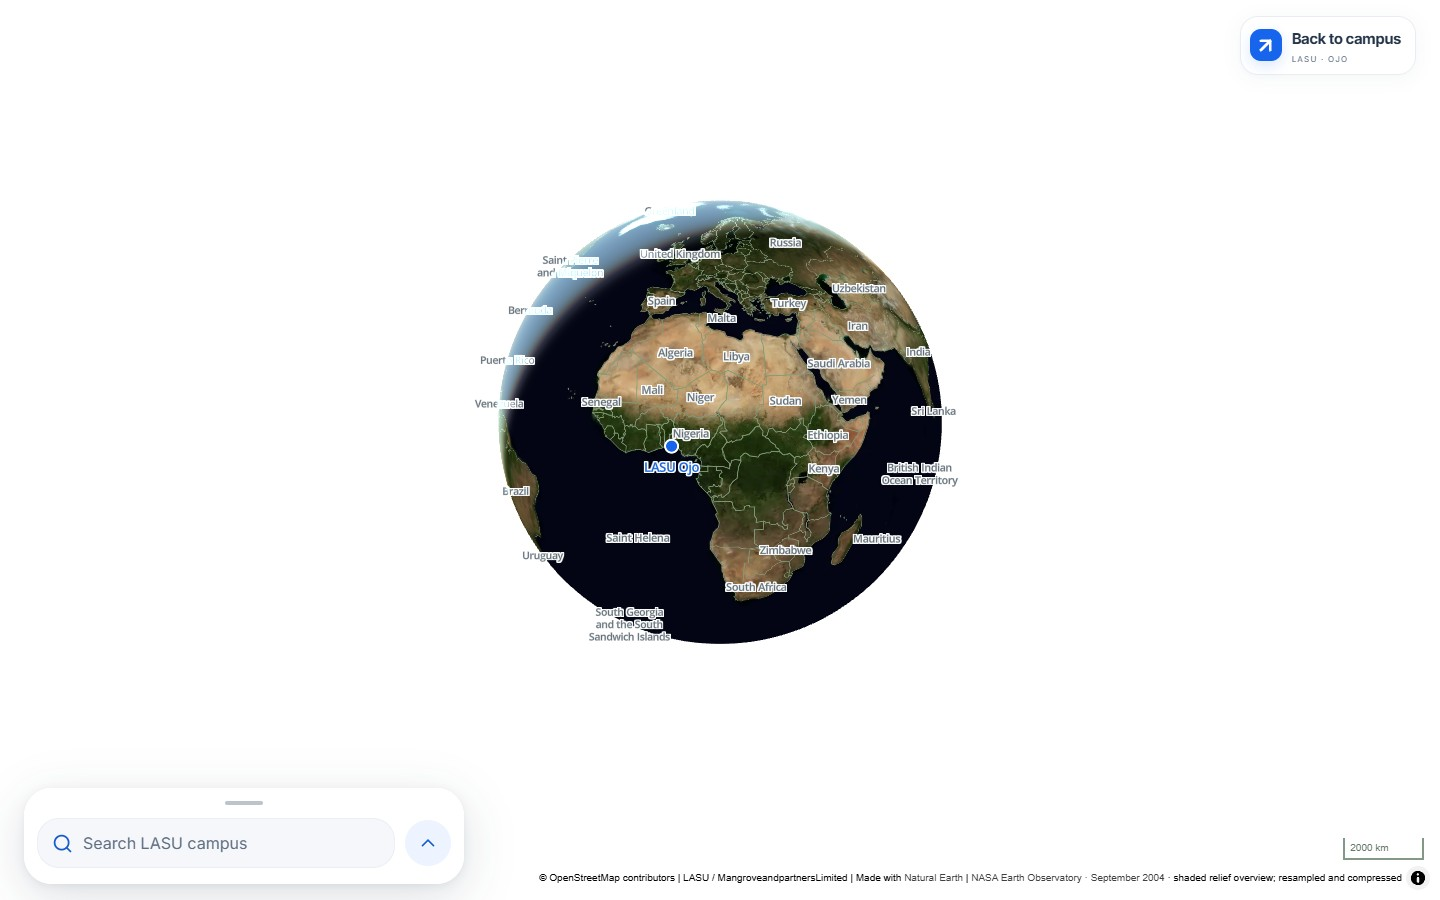
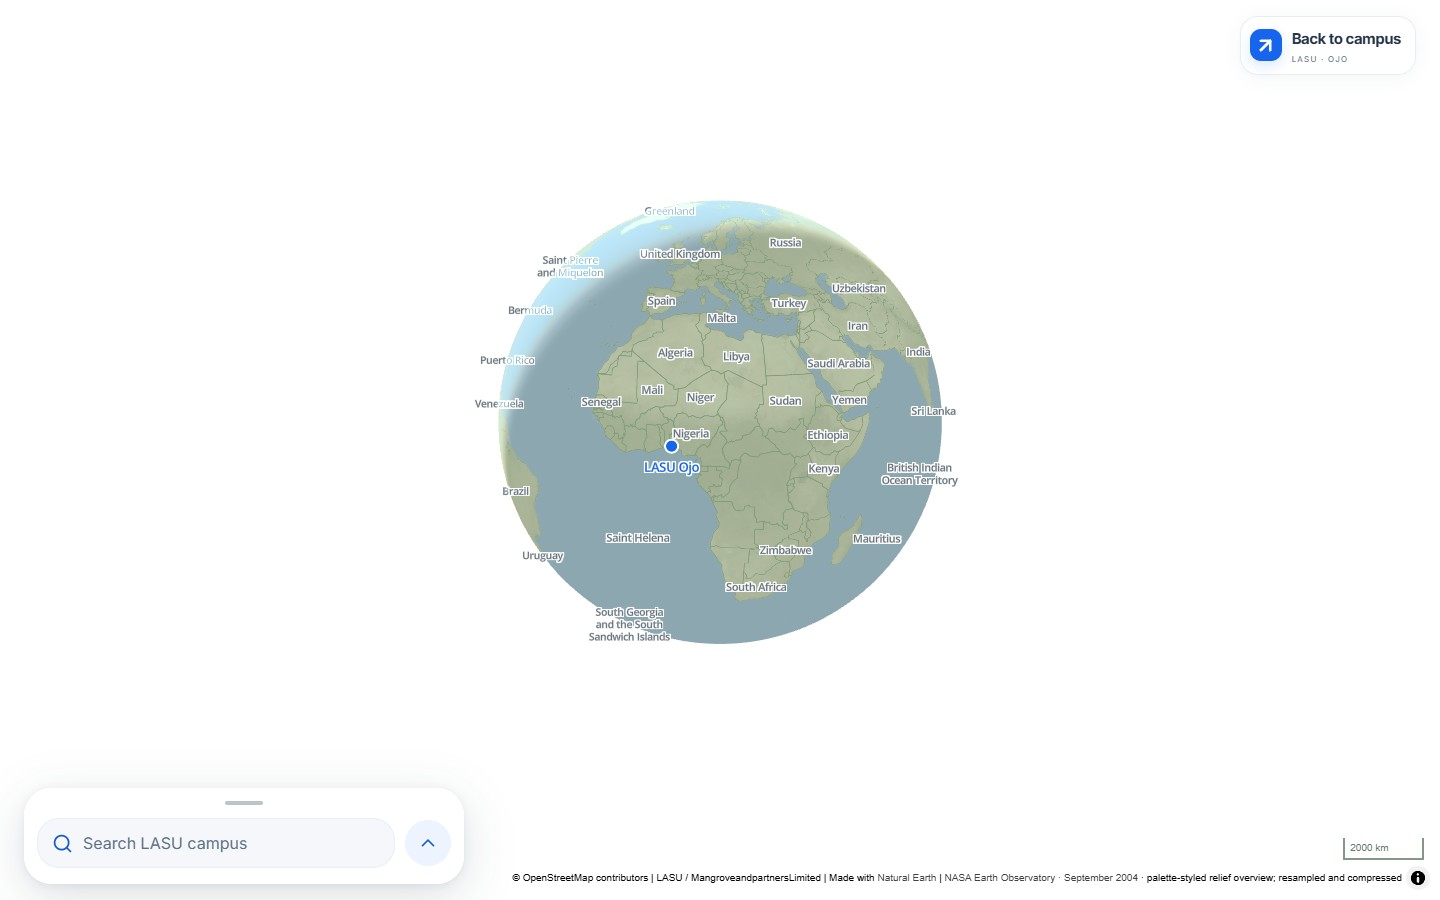
Refresh illustrated globe documentation and production screenshots

Changed region(s): [[0.3438, 0.2178, 0.6562, 0.7156], [0.375, 0.9644, 0.8125, 0.9956]]

diff --git a/README.md b/README.md
@@ -6,7 +6,7 @@ TurnRight is a campus walking and driving navigation PWA for Lagos State Univers
 
 [Open TurnRight](https://turnright.vercel.app/) · [Owner editor](https://turnright.vercel.app/admin) · [Deployment guide](docs/DEPLOYMENT.md) · [Report a software issue](https://github.com/mrglasswillbreak/TurnRight/issues)
 
-![TurnRight natural-colour globe with campus controls and offline world imagery](docs/assets/screenshots/public-globe-desktop-light-2026-09-24.jpg)
+![TurnRight illustrated globe using the campus map colours, with subtle offline relief and campus controls](docs/assets/screenshots/public-globe-desktop-light-2026-09-24.jpg)
 
 > **Project status:** An independent, non-commercial personal project, not an official LASU service. Routes and modeled details combine recorded sources, reviewed corrections and explicitly illustrative estimates. Campus routes have **not been field-verified**. A mapped approach is not a confirmed building entrance, and missing steps information does not establish step-free access.
 
@@ -38,9 +38,9 @@ TurnRight is a campus walking and driving navigation PWA for Lagos State Univers
 
 Captured **24 September 2026** from production builds using the verified public campus snapshot **`lasu-8577d5c85d2c`**. The globe captures show the real public application. Photo/model captures use the real workspace in an isolated fixture; no production drafts or private account information appear. Phone views are responsive browser simulations, not physical-device tests.
 
-| Realistic globe · mobile Dark mode | Photo & model · mobile |
+| Illustrated globe · mobile Dark mode | Photo & model · mobile |
 | --- | --- |
-| <img src="docs/assets/screenshots/public-globe-mobile-dark-2026-09-24.jpg" width="300" alt="Natural-colour Earth with atmosphere, LASU marker and campus navigation controls in Dark mode"> | <img src="docs/assets/screenshots/photo-model-mobile-2026-09-24.jpg" width="300" alt="Full-screen mobile Photo and model workspace with a building photograph, credits, view tabs and mapped wall selector"> |
+| <img src="docs/assets/screenshots/public-globe-mobile-dark-2026-09-24.jpg" width="300" alt="Illustrated Earth with campus greens and blues, gentle atmosphere, LASU marker and navigation controls in Dark mode"> | <img src="docs/assets/screenshots/photo-model-mobile-2026-09-24.jpg" width="300" alt="Full-screen mobile Photo and model workspace with a building photograph, credits, view tabs and mapped wall selector"> |
 
 **Photo & model on desktop:** compare the published photograph with the model, choose a mapped wall and review architectural details. Dimensions and unseen elevations remain estimates.
 
@@ -52,7 +52,7 @@ The building inspector now places its **photo preview and Manage photos controls
 
 The 24 September visual update adds a **Photo & model** workspace, framed building openings, reviewed façade details and optional photographic textures. The reviewed 19-building batch is published as **`lasu-313d8a168635`**, covering all photographed buildings in the 395-building map, using 39 photographs and preserving owner roofs and colours. Dimensions and unseen sides remain estimates; uncertain wall/photo matches require review. No photographic wall textures are approved in this initial release. [Evidence, owner workflow and comparisons](docs/PHOTO-MODELS.md).
 
-The offline globe now bundles the September 2004 **NASA Blue Marble** shaded-relief overview with Natural Earth coastlines, lakes, borders and labels, plus MapLibre atmosphere. It fades into the campus map as you zoom in. The dated imagery is an overview, not current street coverage. Globe and campus visual assets retain separate 8 MiB and 12 MiB limits. The guided editor met the measured input targets; software-GPU map movement remains slow and is documented in the [verification report](docs/PHOTO-MODEL-VERIFICATION.md).
+The offline globe uses the campus map's greens and blues, softer contrast and a gentle atmosphere for an illustrated appearance. The September 2004 **NASA Blue Marble** imagery supplies faint relief beneath Natural Earth coastlines, lakes, borders and labels, then fades into the campus map as you zoom in. The dated imagery is an overview, not current street coverage. Globe and campus visual assets retain separate 8 MiB and 12 MiB limits. The guided editor met the measured input targets; software-GPU map movement remains slow and is documented in the [verification report](docs/PHOTO-MODEL-VERIFICATION.md).
 
 The 23 September update adds [entrance guides and offline building galleries](docs/ARRIVAL-GUIDES.md), explicit entrance selection, recorded accessibility observations and private owner photo review. The [campus-wide photograph inventory](data/photos/README.md) accounts for every candidate in its documented source snapshots; only verified, reusable building matches are included.
 
@@ -81,7 +81,7 @@ These are application/editor changes. Public routing changes only after the owne
 | --- | --- |
 | Exploration | Bottom search dock, local place search, categories, aliases, saved/recent places, provenance and recorded street names. |
 | Map controls and panels | Adjustable mobile/desktop cards and dialogs; full-height desktop opening; pinned navigation; view/compass controls on the left and zoom/location on the right. |
-| World overview | Natural-colour September 2004 NASA imagery, shaded relief, atmosphere, Natural Earth coastlines/lakes/borders, offline labels and a return-to-campus action. |
+| World overview | Illustrated campus palette with subtle September 2004 NASA relief, gentle atmosphere, Natural Earth coastlines/lakes/borders, offline labels and a return-to-campus action. |
 | App updates | Visible update-ready notice, explicit installation, foreground/online checks and navigation safeguards. |
 | Driving directions | Offline campus drive-and-walk journeys, vehicle permissions and one-way roads, turn restrictions, estimated ETA, parking selection, voice guidance, and a confirmed parking-to-walking handoff. Private roads and parking require separate owner driving review. |
 | Walking directions | Worker-based A* routing, the shortest permitted walk and up to two sufficiently different alternatives when available. Recorded steps are shown; missing data stays unknown. |

diff --git a/docs/PHOTO-MODELS.md b/docs/PHOTO-MODELS.md
@@ -33,7 +33,7 @@ Credit: NASA Earth Observatory, Blue Marble Next Generation. [Original imagery](
 
 [Source URLs, hashes and retrieval dates](../data/world-sources.json) and the [derived asset manifest](../web/public/world/manifest.json) make the build reproducible. Ordinary builds require no source downloads. From `web`, run `node scripts/build-world.mjs`; use `--record-sources` only when deliberately reviewing changed source snapshots.
 
-Imagery fades between zooms 5 and 8 into the vector overview. Labels have collision handling and theme-aware halos; the LASU marker and campus transition remain. MapLibre provides atmosphere. Raster tiles wrap at the antimeridian and use Web Mercator's latitude limit. Deliberately plain caps beyond 85° prevent the renderer stretching the last raster row into misleading polar detail; these caps are generalised fills, not photographic coverage.
+The display uses the same greens and blues as the campus map for a softer, illustrated globe. The original tiles remain unchanged: reduced saturation and contrast, gentle brightness grading, and 28% light-theme / 18% dark-theme opacity retain only faint relief over the vector palette. Imagery fades between zooms 5 and 8 into the vector overview. Labels have collision handling and theme-aware halos; the LASU marker and campus transition remain. MapLibre provides a restrained atmosphere. Raster tiles wrap at the antimeridian and use Web Mercator's latitude limit. Deliberately plain, palette-matched caps beyond 85° prevent the renderer stretching the last raster row into misleading polar detail; these caps are generalised fills, not photographic coverage. Styling adds no assets or download size.
 
 ## Rendering, offline delivery and compatibility
 

diff --git a/docs/assets/screenshots/README.md b/docs/assets/screenshots/README.md
@@ -1,8 +1,10 @@
 # Application screenshots
 
-## Photo models and realistic globe — 24 September 2026
+## Photo models and illustrated globe — 24 September 2026
 
 The four `2026-09-24` images are unaltered Chromium screenshots from production builds. The public globe uses the actual app with a verified local copy of published campus `lasu-8577d5c85d2c`; the guided workspace uses its real component in a production fixture. No owner session, private upload, draft, or physical GPS is used. Desktop is 1440 × 900 for the globe and 1280 × 900 for the workspace; mobile is 390 × 844. The workspace demonstrates estimated details before applying them, not a published wall assignment.
+
+The globe captures were refreshed after the illustrated-palette follow-up: campus greens and blues lead, NASA relief is faint, and the atmosphere is softer. These are rendered style changes; the original bundled imagery and geography have not been altered.
 
 Reproduce from `web`: fetch the documented evidence snapshot, build `vite.performance.config.ts`, serve its output on 5195, build the application and serve `dist` on 5196, then run `node scripts/capture-photo-model.mjs` and `node scripts/capture-visual-update.mjs`. The scripts read only public fixtures and write screenshots. They block service workers for public captures, so these particular screenshots do not claim a disconnected session; separate PWA tests verify offline reloads.
 

diff --git a/docs/PHOTO-MODEL-VERIFICATION.md b/docs/PHOTO-MODEL-VERIFICATION.md
@@ -35,6 +35,8 @@ The final candidate contains 57 detailed models, three simplified models and 335
 
 ## Production measurements
 
+The measurements below precede the illustrated-globe palette follow-up. That follow-up changes paint properties only, retains the same verified assets and zoom transitions, and adds no download bytes. Its focused globe/theme/model regression suites passed (15 tests), alongside TypeScript, lint and production budgets; refreshed production screenshots cover desktop Light and mobile Dark appearances. Existing generalised polar caps remain an overview representation. The five-run performance benchmark was not repeated for colour grading.
+
 | p95 measurement | Previous visuals | Updated visuals |
 |---|---:|---:|
 | Globe frame interval | 366.7 ms | 549.9 ms |
